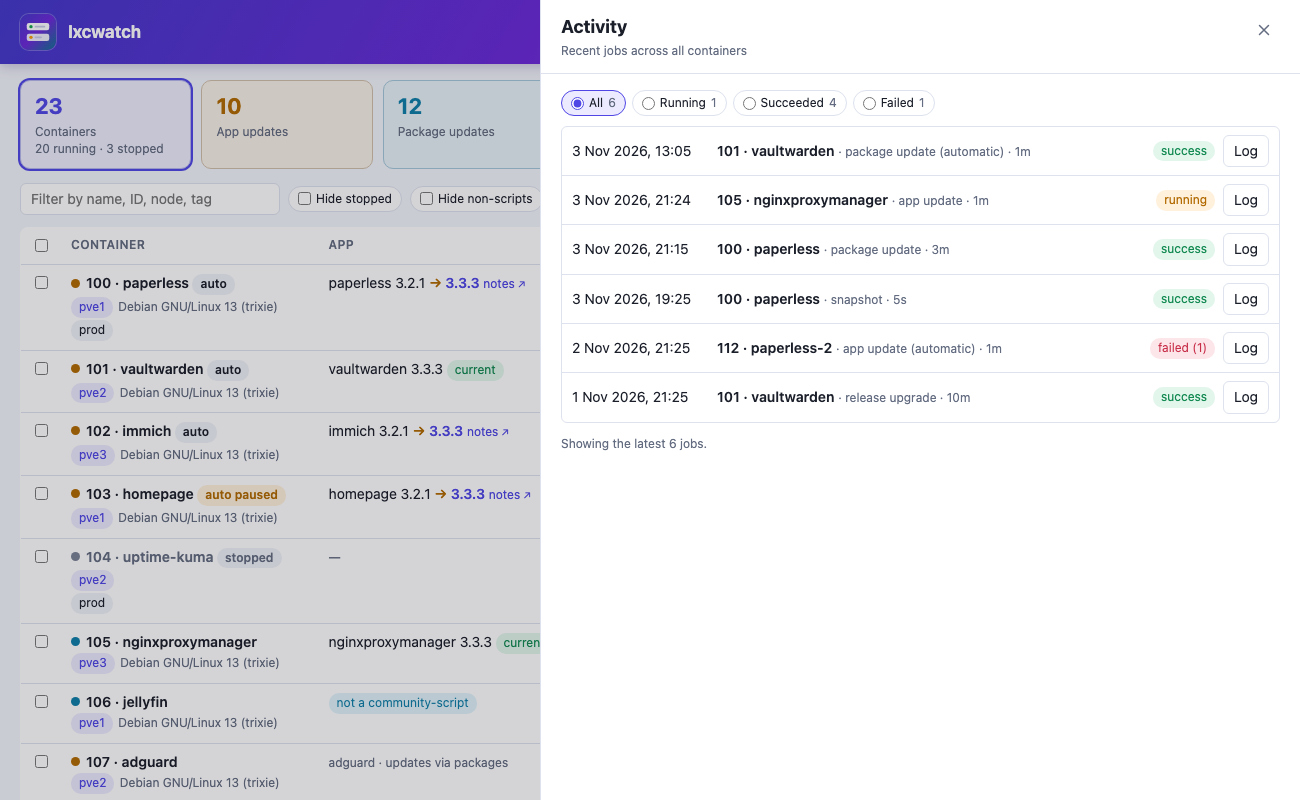
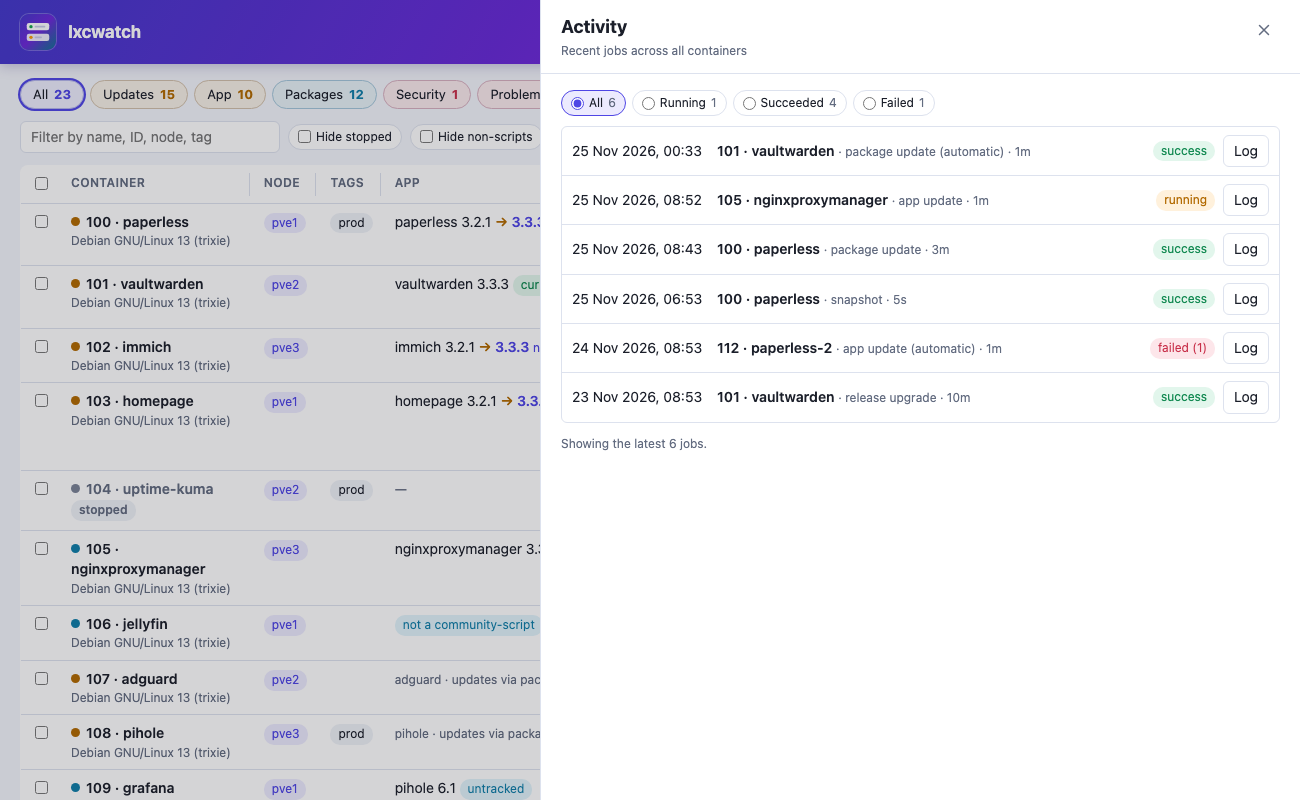
Update the README screenshots to the current dashboard
Filter pills, the column picker and the newer columns, the Automatic
updates dialog and the activity filters. Same mock data and sizes as
before, with the mock's update badge hidden.

diff --git a/README.md b/README.md
@@ -53,7 +53,7 @@ These use made-up data.
 
 <picture>
   <source media="(prefers-color-scheme: dark)" srcset="docs/screenshots/settings-dark.png">
-  <img src="docs/screenshots/settings-light.png" alt="The settings dialog with the maintenance window, days, release wait and snapshot options">
+  <img src="docs/screenshots/settings-light.png" alt="The automatic updates dialog with the maintenance window, days, release wait and snapshot options">
 </picture>
 
 **Activity:** recent jobs across all containers.
